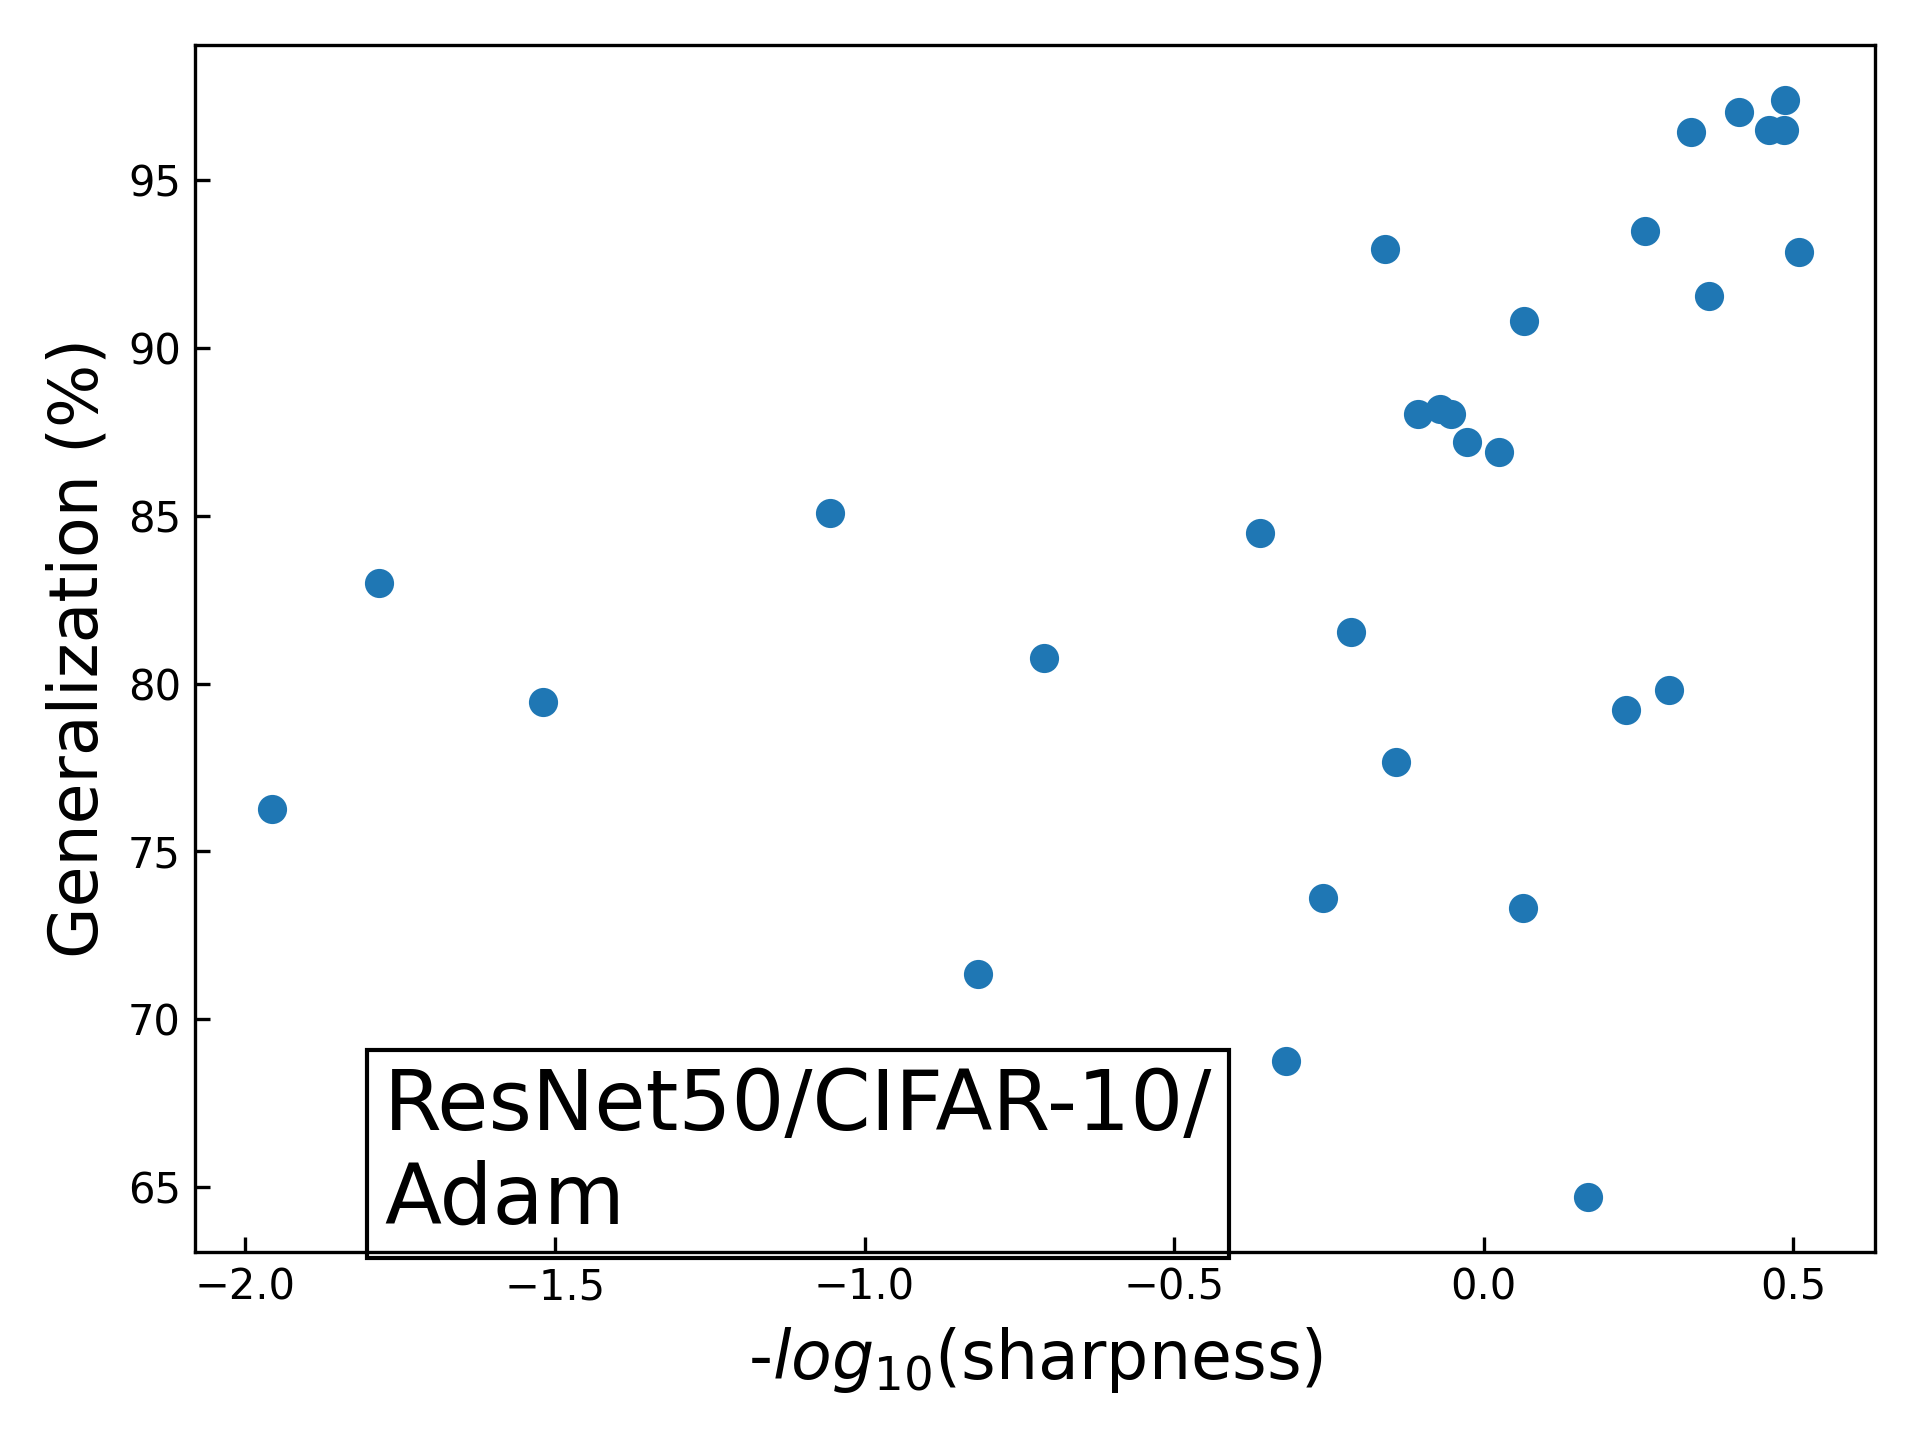
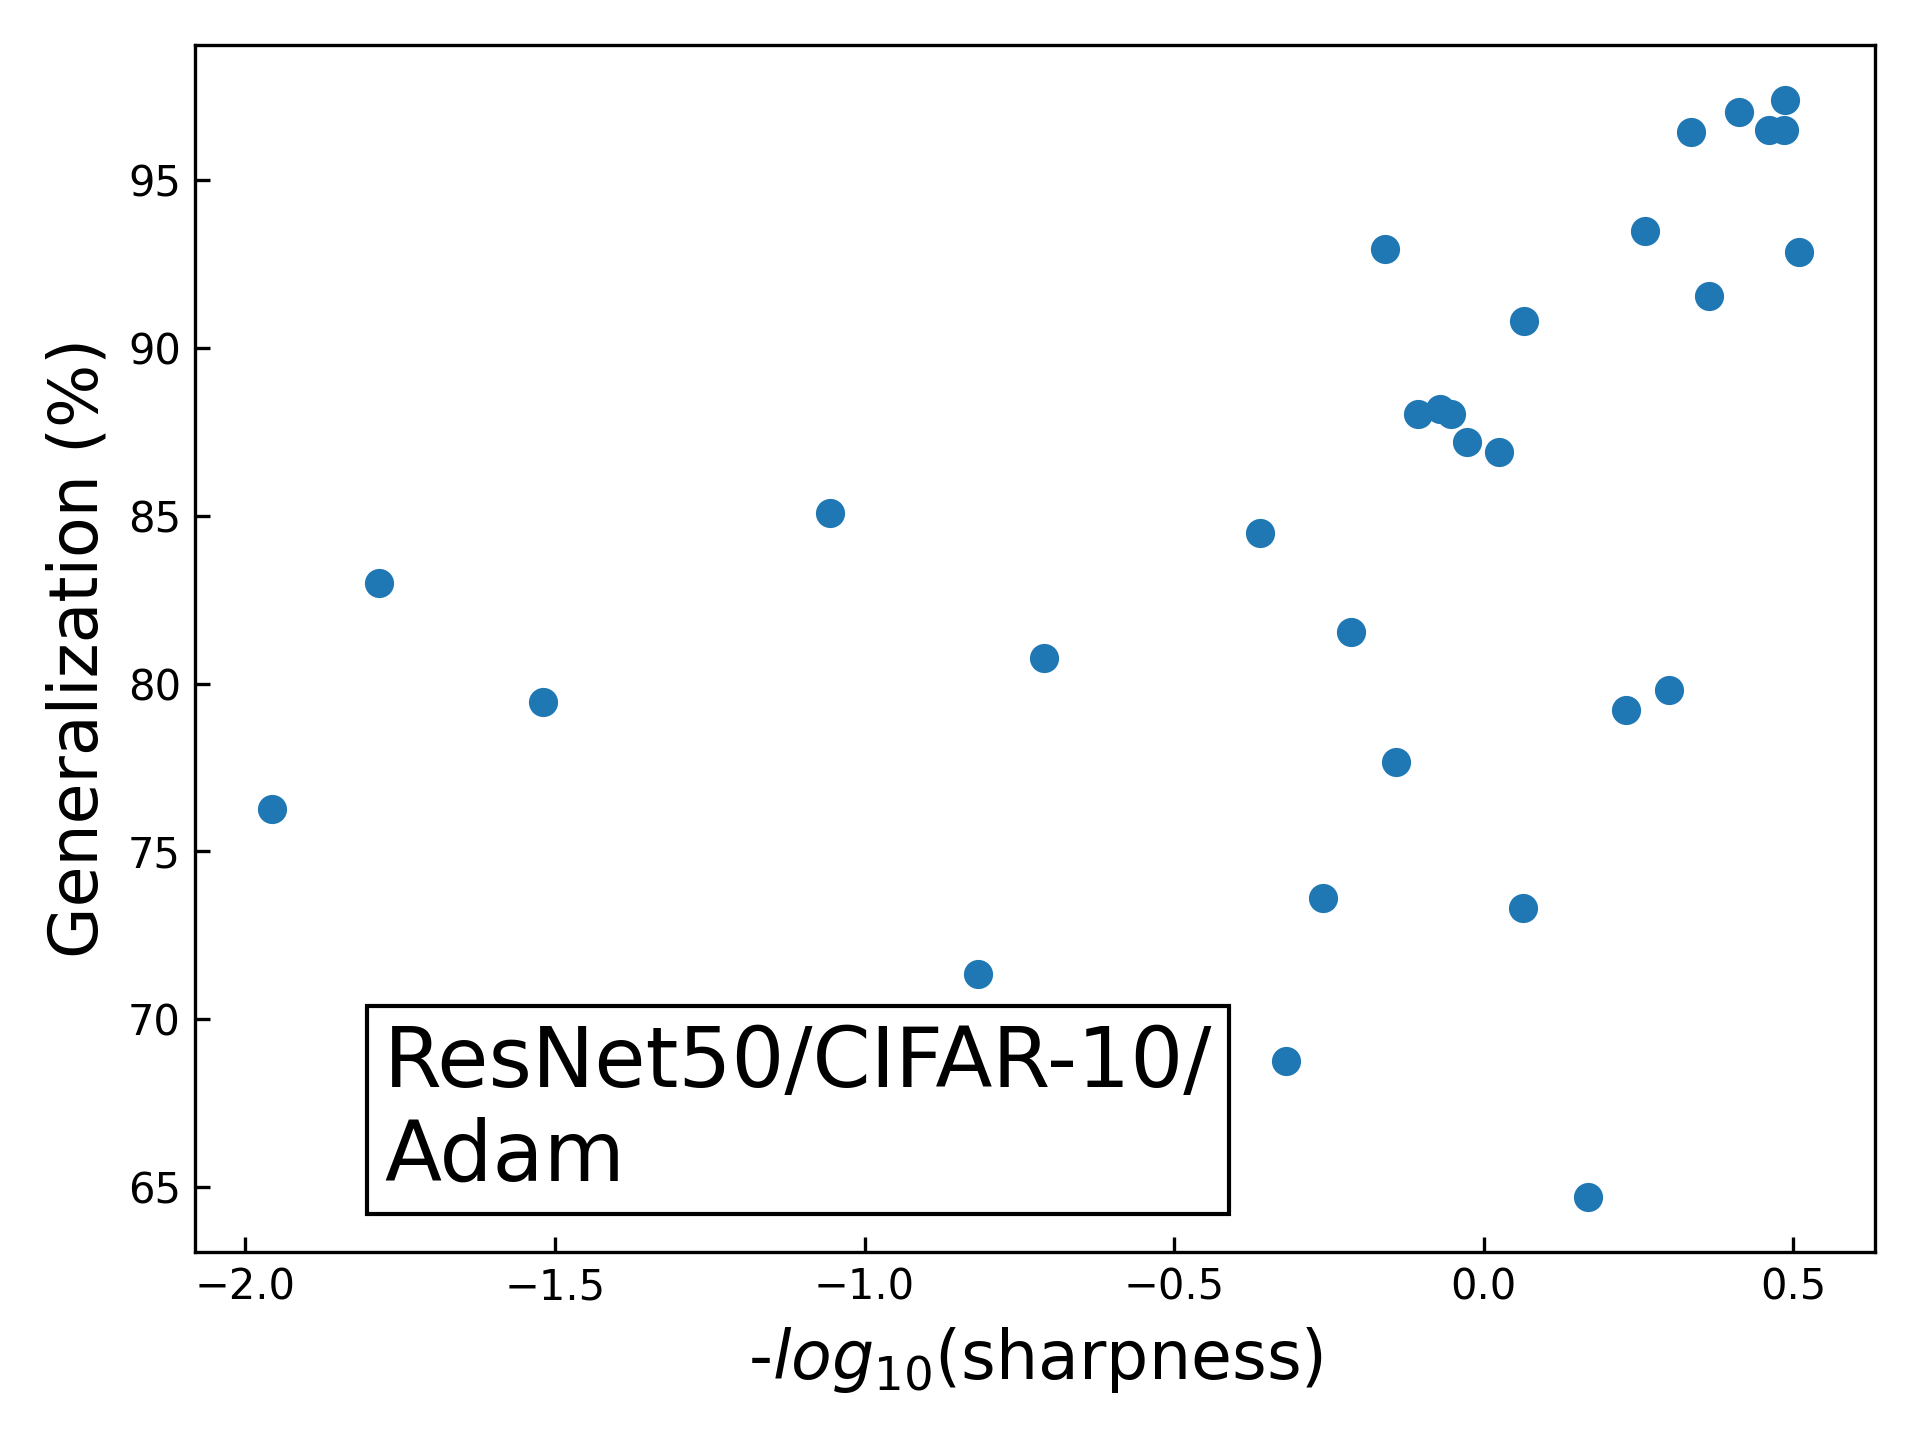
update pics

Changed region(s): [[0.1875, 0.6875, 0.6562, 0.875]]

diff --git a/playground/volume/attack_sets/checkpoints_part_0-2500/collect-plot-log10.py b/playground/volume/attack_sets/checkpoints_part_0-2500/collect-plot-log10.py
@@ -107,7 +107,7 @@ ax.scatter(-sharpness,generalization)
 ax.set_xlabel(r'-$log_{10}$(sharpness)',fontdict={'fontsize': 16, 'fontweight': 'medium'})
 ax.set_ylabel('Generalization (%)',fontdict={'fontsize': 16, 'fontweight': 'medium'})
 ax.tick_params(direction='in')
-fig.text(0.2,0.15,'ResNet50/CIFAR-10/\nAdam', bbox=dict(facecolor='none'), fontsize=20)
+fig.text(0.2,0.18,'ResNet50/CIFAR-10/\nAdam', bbox=dict(facecolor='none'), fontsize=20)
 fig.savefig('sharpness-generalization-resnet50.png', dpi=300)
 plt.clf()
 
@@ -181,7 +181,7 @@ ax.scatter(volume,generalization)
 ax.set_xlabel(r'$log_{10}V(f)$',fontdict={'fontsize': 16, 'fontweight': 'medium'})
 ax.set_ylabel('Generalization (%)',fontdict={'fontsize': 16, 'fontweight': 'medium'})
 ax.tick_params(direction='in')
-fig.text(0.5,0.15,'ResNet50/CIFAR-10/\nAdam', bbox=dict(facecolor='none'), fontsize=20)
+fig.text(0.5,0.18,'ResNet50/CIFAR-10/\nAdam', bbox=dict(facecolor='none'), fontsize=20)
 fig.savefig('volume-generalization-resnet50.png', dpi=300)
 plt.clf()
 
